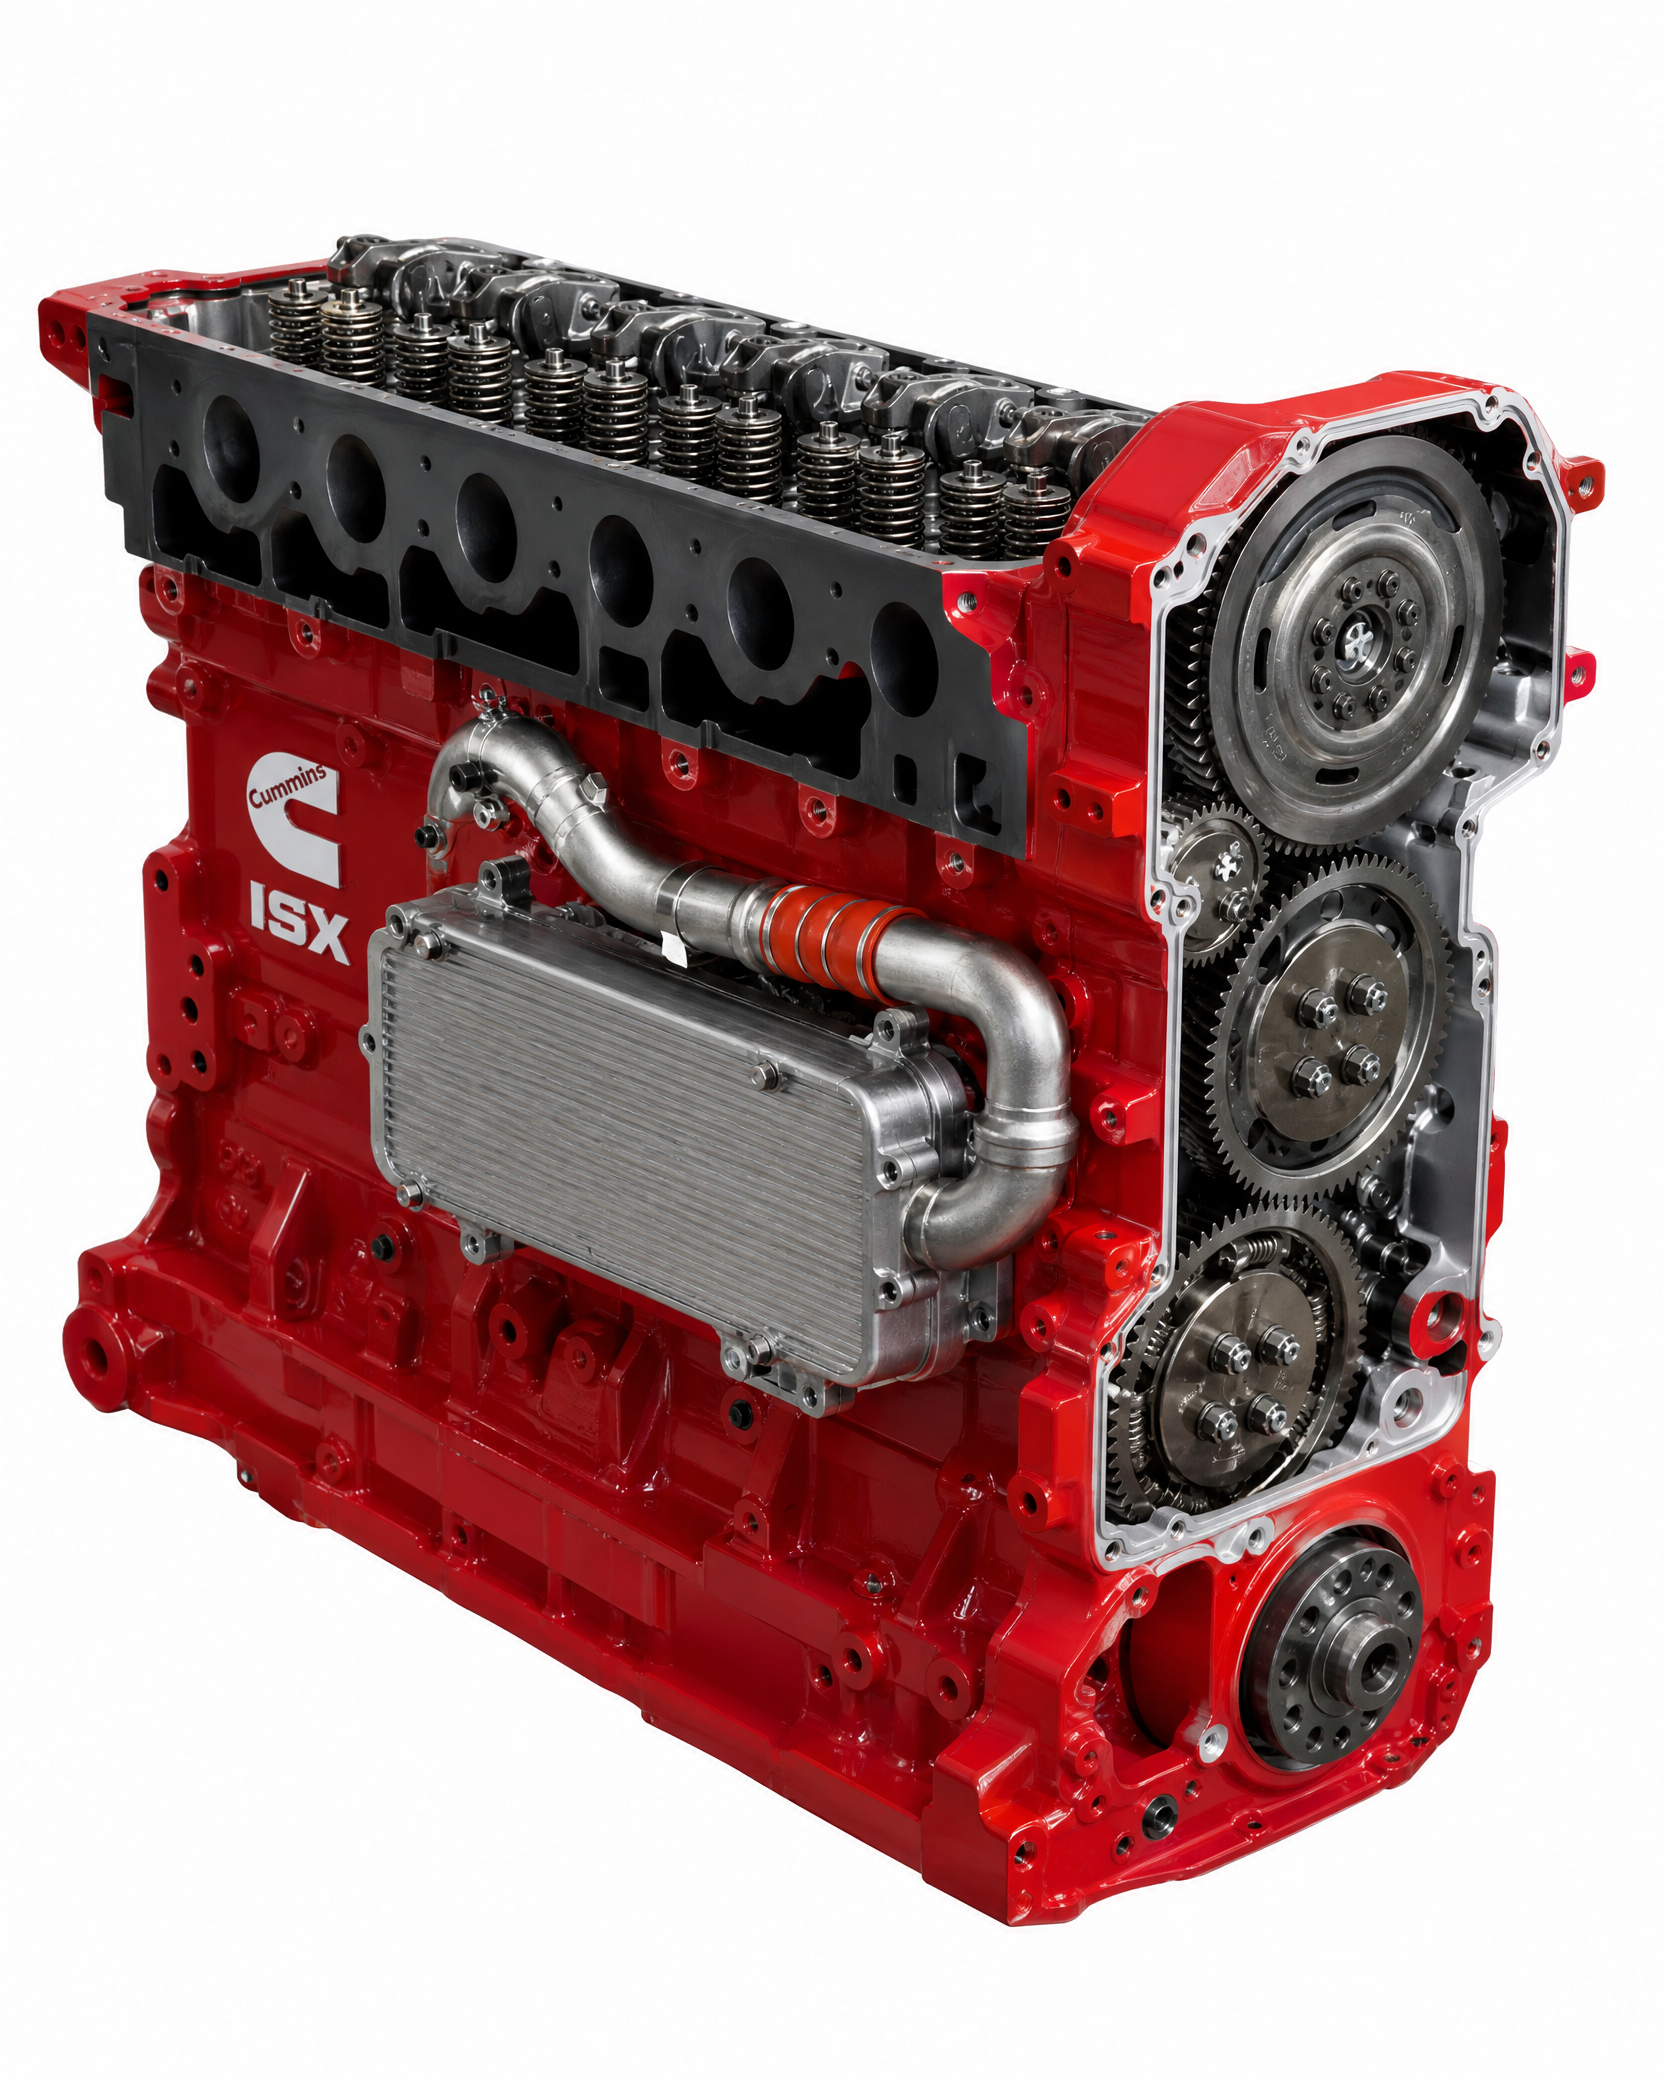
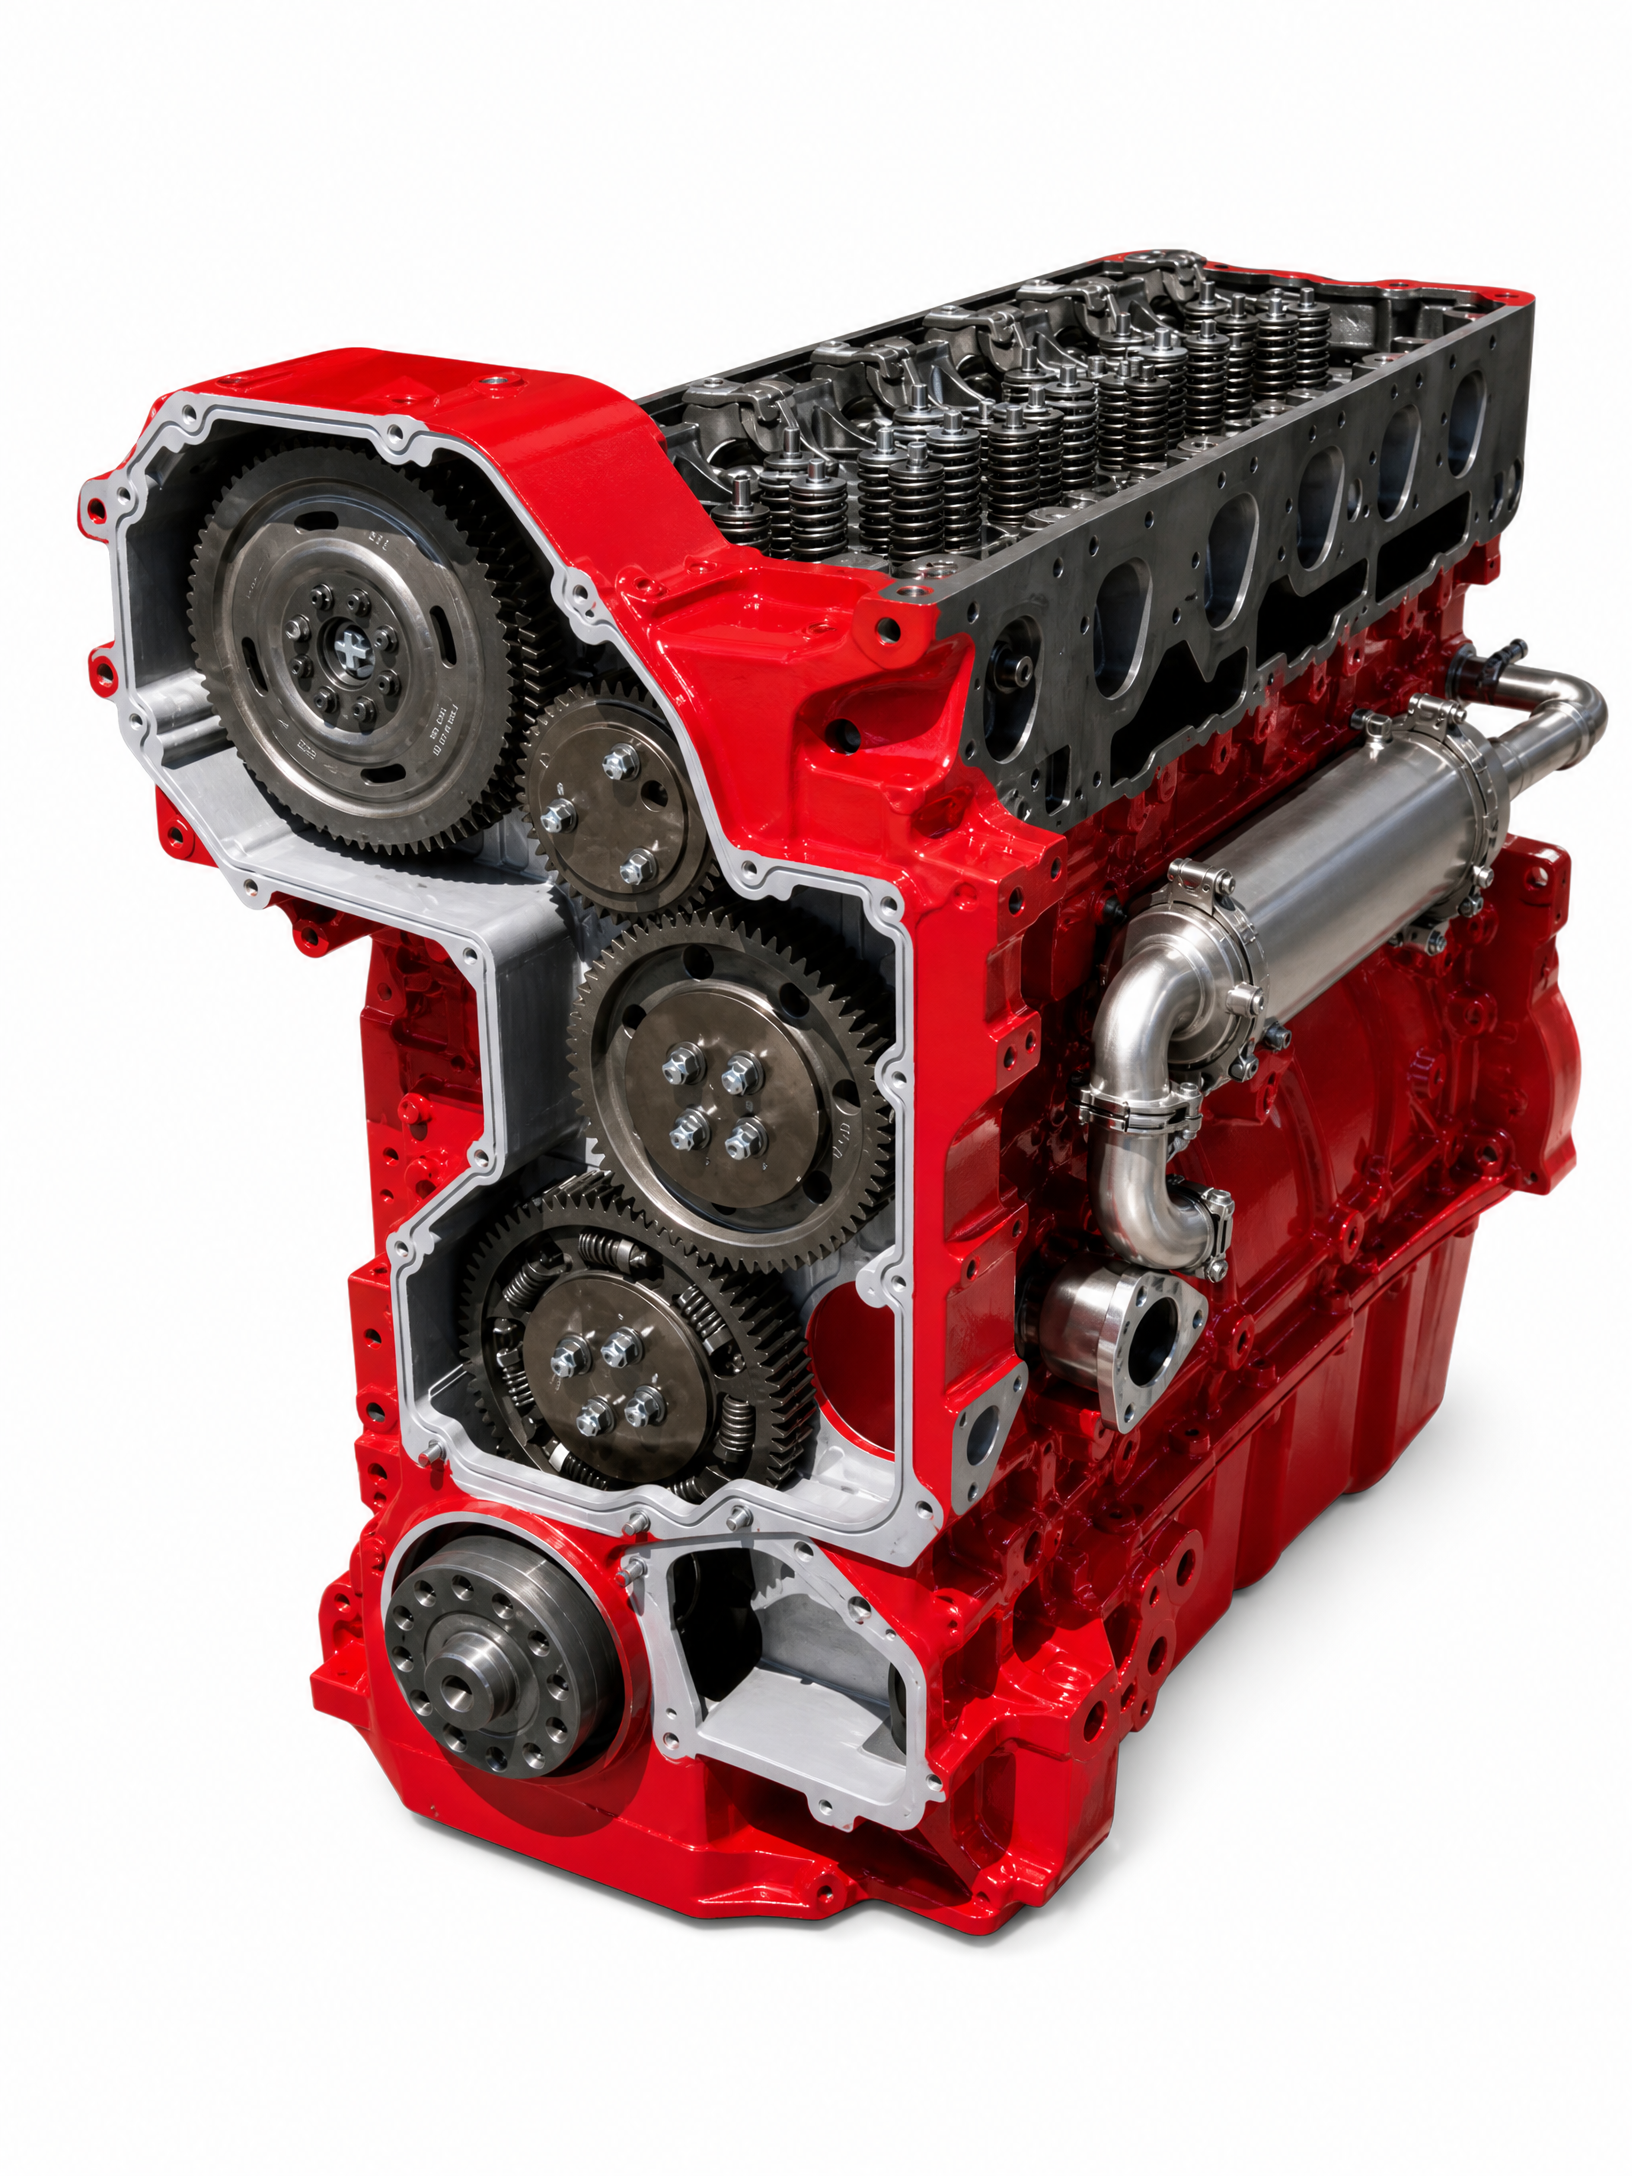
Add 6,500 pricing to all engines, clean images, remanufacturing process section
- Added price column to engines database schema (decimal 10,2)
- Set 6,500 price for all 9 engine models in seed data
- Display price prominently on homepage cards, engines list, and single engine pages
- Added price field to admin panel for future editing
- Updated Schema.org from Article to Product with pricing for Google rich results
- Regenerated x15-performance and isx12n-natural-gas images without logos/text
- Added detailed 6-step remanufacturing process section to each engine page
- Added call-to-action buttons with phone number on engine pages

diff --git a/google49df19dd577457ae.html b/google49df19dd577457ae.html
@@ -1,0 +1,1 @@
+google-site-verification: google49df19dd577457ae.html

diff --git a/templates/engine-single.php b/templates/engine-single.php
@@ -15,18 +15,32 @@ $pageDescription = $engine['meta_description'] ?: $engine['excerpt'] ?: 'Complet
 $pageCanonical = SITE_URL . '/engines/' . $engine['slug'];
 $pageImage = $engine['featured_image'];
 
-// Article Schema
+// Product Schema for rich results with pricing
 $schemaJson = json_encode([
     '@context' => 'https://schema.org',
-    '@type' => 'Article',
-    'headline' => $engine['h1_title'] ?: $engine['title'],
+    '@type' => 'Product',
+    'name' => ($engine['h1_title'] ?: $engine['title']) . ' - Remanufactured',
     'description' => $pageDescription,
     'url' => $pageCanonical,
-    'datePublished' => $engine['created_at'],
-    'dateModified' => $engine['updated_at'],
-    'author' => ['@type' => 'Organization', 'name' => 'ISX Engines'],
-    'publisher' => ['@type' => 'Organization', 'name' => 'ISX Engines'],
-    'mainEntityOfPage' => $pageCanonical
+    'image' => $engine['featured_image'] ? SITE_URL . $engine['featured_image'] : '',
+    'brand' => ['@type' => 'Brand', 'name' => 'US Engine Production'],
+    'manufacturer' => ['@type' => 'Organization', 'name' => 'US Engine Production'],
+    'offers' => [
+        '@type' => 'Offer',
+        'url' => $pageCanonical,
+        'priceCurrency' => 'USD',
+        'price' => $engine['price'] ?? '16500.00',
+        'priceValidUntil' => date('Y-12-31'),
+        'availability' => 'https://schema.org/InStock',
+        'itemCondition' => 'https://schema.org/RefurbishedCondition',
+        'seller' => ['@type' => 'Organization', 'name' => 'US Engine Production']
+    ],
+    'aggregateRating' => [
+        '@type' => 'AggregateRating',
+        'ratingValue' => '4.9',
+        'reviewCount' => '127',
+        'bestRating' => '5'
+    ]
 ]);
 
 include __DIR__ . '/header.php';
@@ -48,6 +62,20 @@ include __DIR__ . '/header.php';
         <div class="row">
             <div class="col-lg-8">
                 <h1 class="mb-3"><?= sanitize($engine['h1_title'] ?: $engine['title']) ?></h1>
+                
+                <!-- Price Banner -->
+                <?php if (!empty($engine['price'])): ?>
+                <div class="alert alert-success d-flex align-items-center justify-content-between mb-4" style="border-left: 5px solid #198754;">
+                    <div>
+                        <span class="fw-bold fs-4 text-success">$<?= number_format($engine['price'], 0) ?></span>
+                        <span class="text-muted ms-2">Remanufactured | Ready to Ship</span>
+                    </div>
+                    <div>
+                        <a href="tel:[phone redacted]" class="btn btn-success btn-sm me-2"><i class="fas fa-phone"></i> Call Now</a>
+                        <a href="<?= SITE_URL ?>/quote" class="btn btn-outline-success btn-sm"><i class="fas fa-envelope"></i> Get Quote</a>
+                    </div>
+                </div>
+                <?php endif; ?>
                 
                 <?php if ($engine['featured_image']): ?>
                     <img src="<?= SITE_URL . $engine['featured_image'] ?>" class="img-fluid rounded mb-4 w-100" style="max-height:400px;object-fit:cover;" alt="<?= sanitize($engine['title']) ?>">
@@ -85,6 +113,74 @@ include __DIR__ . '/header.php';
                     </ul>
                 </div>
                 <?php endif; ?>
+                
+                <!-- US Engine Production Remanufacturing Process -->
+                <div class="mt-5 p-4 bg-light rounded border border-danger border-opacity-25">
+                    <h2 class="text-danger border-bottom border-danger pb-2 mb-4">Why Choose Our Remanufactured <?= sanitize($engine['title']) ?>?</h2>
+                    
+                    <p class="lead">At US Engine Production, we don't just rebuild engines; we completely remanufacture them. Our rigorous 6-step process ensures that every Cummins ISX engine we produce is one of the best remanufactured units available on the market.</p>
+                    
+                    <div class="row g-4 mt-2">
+                        <div class="col-md-6">
+                            <div class="d-flex align-items-start">
+                                <div class="bg-danger text-white rounded-circle d-flex align-items-center justify-content-center me-3 flex-shrink-0" style="width: 40px; height: 40px; font-weight: bold;">1</div>
+                                <div>
+                                    <h4 class="h5">Complete Teardown</h4>
+                                    <p class="small text-muted">Every engine is completely dismantled down to the bare cylinder block. We don't cut corners by leaving sub-assemblies intact.</p>
+                                </div>
+                            </div>
+                        </div>
+                        <div class="col-md-6">
+                            <div class="d-flex align-items-start">
+                                <div class="bg-danger text-white rounded-circle d-flex align-items-center justify-content-center me-3 flex-shrink-0" style="width: 40px; height: 40px; font-weight: bold;">2</div>
+                                <div>
+                                    <h4 class="h5">Meticulous Cleaning</h4>
+                                    <p class="small text-muted">All reusable parts undergo industrial thermal cleaning and magnafluxing to remove all carbon, scale, and contaminants.</p>
+                                </div>
+                            </div>
+                        </div>
+                        <div class="col-md-6">
+                            <div class="d-flex align-items-start">
+                                <div class="bg-danger text-white rounded-circle d-flex align-items-center justify-content-center me-3 flex-shrink-0" style="width: 40px; height: 40px; font-weight: bold;">3</div>
+                                <div>
+                                    <h4 class="h5">Precision Inspection</h4>
+                                    <p class="small text-muted">We use high-quality micrometers and laser measuring tools to inspect all parts, confirming reusability against strict OEM tolerances.</p>
+                                </div>
+                            </div>
+                        </div>
+                        <div class="col-md-6">
+                            <div class="d-flex align-items-start">
+                                <div class="bg-danger text-white rounded-circle d-flex align-items-center justify-content-center me-3 flex-shrink-0" style="width: 40px; height: 40px; font-weight: bold;">4</div>
+                                <div>
+                                    <h4 class="h5">Critical Machining</h4>
+                                    <p class="small text-muted">We verify critical measurements like liner protrusion (0.010"-0.014") and counterbore depth. Any variance over 0.001" is corrected.</p>
+                                </div>
+                            </div>
+                        </div>
+                        <div class="col-md-6">
+                            <div class="d-flex align-items-start">
+                                <div class="bg-danger text-white rounded-circle d-flex align-items-center justify-content-center me-3 flex-shrink-0" style="width: 40px; height: 40px; font-weight: bold;">5</div>
+                                <div>
+                                    <h4 class="h5">Expert Reassembly</h4>
+                                    <p class="small text-muted">Engines are reassembled using premium forged steel pistons, new ring sets, wet liners, main/rod bearings, and complete gasket kits.</p>
+                                </div>
+                            </div>
+                        </div>
+                        <div class="col-md-6">
+                            <div class="d-flex align-items-start">
+                                <div class="bg-danger text-white rounded-circle d-flex align-items-center justify-content-center me-3 flex-shrink-0" style="width: 40px; height: 40px; font-weight: bold;">6</div>
+                                <div>
+                                    <h4 class="h5">Dyno Testing</h4>
+                                    <p class="small text-muted">Before shipping, every engine undergoes compression, leak-down, oil pressure, and full dyno testing under load to guarantee performance.</p>
+                                </div>
+                            </div>
+                        </div>
+                    </div>
+                    
+                    <div class="mt-4 pt-3 border-top text-center">
+                        <p class="mb-0 fw-bold">We address the specific flaws of the <?= sanitize($engine['ecm_code']) ?> during our rebuild process, making our remanufactured engine more reliable than the original factory unit.</p>
+                    </div>
+                </div>
             </div>
             
             <!-- Sidebar -->
@@ -105,8 +201,18 @@ include __DIR__ . '/header.php';
                             <?php if ($engine['emission_standard']): ?><tr><th class="ps-3">Emissions</th><td><?= sanitize($engine['emission_standard']) ?></td></tr><?php endif; ?>
                         </table>
                     </div>
+                    <?php if (!empty($engine['price'])): ?>
+                    <div class="card-body border-top">
+                        <div class="text-center">
+                            <span class="d-block text-muted small">Remanufactured Price</span>
+                            <span class="fw-bold fs-3 text-success">$<?= number_format($engine['price'], 0) ?></span>
+                            <span class="d-block text-muted small">1-Year Unlimited Mileage Warranty</span>
+                        </div>
+                    </div>
+                    <?php endif; ?>
                     <div class="card-footer bg-white">
-                        <a href="<?= SITE_URL ?>/quote" class="btn btn-danger w-100"><i class="fas fa-envelope"></i> Get a Quote</a>
+                        <a href="tel:[phone redacted]" class="btn btn-danger w-100 mb-2"><i class="fas fa-phone"></i> Call 1-[phone redacted]</a>
+                        <a href="<?= SITE_URL ?>/quote" class="btn btn-outline-danger w-100"><i class="fas fa-envelope"></i> Request Quote</a>
                     </div>
                 </div>
                 

diff --git a/admin/engines.php b/admin/engines.php
@@ -29,6 +29,7 @@ if ($_SERVER['REQUEST_METHOD'] === 'POST') {
     $emission_standard = trim($_POST['emission_standard'] ?? '');
     $key_features = trim($_POST['key_features'] ?? '');
     $common_problems = trim($_POST['common_problems'] ?? '');
+    $price = floatval($_POST['price'] ?? 16500);
     $is_published = isset($_POST['is_published']) ? 1 : 0;
     $featured_image = trim($_POST['featured_image'] ?? '');
     
@@ -53,12 +54,12 @@ if ($_SERVER['REQUEST_METHOD'] === 'POST') {
         $message = '<div class="alert alert-danger">Title is required.</div>';
     } else {
         if ($id > 0) {
-            $stmt = $db->prepare("UPDATE engines SET title=?, slug=?, category_id=?, meta_title=?, meta_description=?, h1_title=?, content=?, excerpt=?, featured_image=?, years_produced=?, displacement=?, horsepower=?, torque=?, ecm_code=?, fuel_type=?, bore_stroke=?, configuration=?, emission_standard=?, key_features=?, common_problems=?, is_published=? WHERE id=?");
-            $stmt->execute([$title, $slug, $category_id ?: null, $meta_title, $meta_description, $h1_title, $content, $excerpt, $featured_image, $years_produced, $displacement, $horsepower, $torque, $ecm_code, $fuel_type, $bore_stroke, $configuration, $emission_standard, $key_features, $common_problems, $is_published, $id]);
+            $stmt = $db->prepare("UPDATE engines SET title=?, slug=?, category_id=?, meta_title=?, meta_description=?, h1_title=?, content=?, excerpt=?, featured_image=?, years_produced=?, displacement=?, horsepower=?, torque=?, ecm_code=?, fuel_type=?, bore_stroke=?, configuration=?, emission_standard=?, key_features=?, common_problems=?, price=?, is_published=? WHERE id=?");
+            $stmt->execute([$title, $slug, $category_id ?: null, $meta_title, $meta_description, $h1_title, $content, $excerpt, $featured_image, $years_produced, $displacement, $horsepower, $torque, $ecm_code, $fuel_type, $bore_stroke, $configuration, $emission_standard, $key_features, $common_problems, $price, $is_published, $id]);
             $message = '<div class="alert alert-success">Engine page updated!</div>';
         } else {
-            $stmt = $db->prepare("INSERT INTO engines (title, slug, category_id, meta_title, meta_description, h1_title, content, excerpt, featured_image, years_produced, displacement, horsepower, torque, ecm_code, fuel_type, bore_stroke, configuration, emission_standard, key_features, common_problems, is_published) VALUES (?, ?, ?, ?, ?, ?, ?, ?, ?, ?, ?, ?, ?, ?, ?, ?, ?, ?, ?, ?, ?)");
-            $stmt->execute([$title, $slug, $category_id ?: null, $meta_title, $meta_description, $h1_title, $content, $excerpt, $featured_image, $years_produced, $displacement, $horsepower, $torque, $ecm_code, $fuel_type, $bore_stroke, $configuration, $emission_standard, $key_features, $common_problems, $is_published]);
+            $stmt = $db->prepare("INSERT INTO engines (title, slug, category_id, meta_title, meta_description, h1_title, content, excerpt, featured_image, years_produced, displacement, horsepower, torque, ecm_code, fuel_type, bore_stroke, configuration, emission_standard, key_features, common_problems, price, is_published) VALUES (?, ?, ?, ?, ?, ?, ?, ?, ?, ?, ?, ?, ?, ?, ?, ?, ?, ?, ?, ?, ?, ?)");
+            $stmt->execute([$title, $slug, $category_id ?: null, $meta_title, $meta_description, $h1_title, $content, $excerpt, $featured_image, $years_produced, $displacement, $horsepower, $torque, $ecm_code, $fuel_type, $bore_stroke, $configuration, $emission_standard, $key_features, $common_problems, $price, $is_published]);
             $id = $db->lastInsertId();
             $message = '<div class="alert alert-success">Engine page created!</div>';
         }
@@ -131,7 +132,7 @@ include __DIR__ . '/includes/header.php';
     </div>
 
 <?php else:
-    $engine = ['title'=>'','slug'=>'','category_id'=>0,'meta_title'=>'','meta_description'=>'','h1_title'=>'','content'=>'','excerpt'=>'','featured_image'=>'','years_produced'=>'','displacement'=>'','horsepower'=>'','torque'=>'','ecm_code'=>'','fuel_type'=>'Diesel','bore_stroke'=>'','configuration'=>'Inline 6-Cylinder','emission_standard'=>'','key_features'=>'','common_problems'=>'','is_published'=>1];
+    $engine = ['title'=>'','slug'=>'','category_id'=>0,'meta_title'=>'','meta_description'=>'','h1_title'=>'','content'=>'','excerpt'=>'','featured_image'=>'','years_produced'=>'','displacement'=>'','horsepower'=>'','torque'=>'','ecm_code'=>'','fuel_type'=>'Diesel','bore_stroke'=>'','configuration'=>'Inline 6-Cylinder','emission_standard'=>'','key_features'=>'','common_problems'=>'','price'=>16500,'is_published'=>1];
     if ($id > 0) {
         $stmt = $db->prepare("SELECT * FROM engines WHERE id = ?");
         $stmt->execute([$id]);
@@ -215,6 +216,10 @@ include __DIR__ . '/includes/header.php';
                             <div class="col-6 col-md-4">
                                 <label class="form-label small">Emission Standard</label>
                                 <input type="text" name="emission_standard" class="form-control form-control-sm" value="<?= sanitize($engine['emission_standard']) ?>" placeholder="e.g. EPA 2010">
+                            </div>
+                            <div class="col-6 col-md-4">
+                                <label class="form-label small fw-bold text-success">Price ($)</label>
+                                <input type="number" name="price" class="form-control form-control-sm" value="<?= $engine['price'] ?? 16500 ?>" step="0.01" min="0">
                             </div>
                         </div>
                     </div>

diff --git a/templates/home.php b/templates/home.php
@@ -30,7 +30,7 @@ $schemaJson = json_encode([
         'addressCountry' => 'US'
     ],
     'openingHours' => 'Mo-Fr 08:00-18:00',
-    'priceRange' => '$$'
+    'priceRange' => '$16,500'
 ]);
 
 include __DIR__ . '/header.php';
@@ -137,7 +137,13 @@ foreach ($topPromos as $promo): ?>
                             <div class="d-flex justify-content-between align-items-start mb-2">
                                 <h3 class="h5 card-title text-dark mb-0"><?= sanitize($eng['title']) ?></h3>
                             </div>
-                            <p class="text-muted small mb-2"><?= sanitize($eng['excerpt'] ?: substr(strip_tags($eng['content']), 0, 120)) ?>...</p>
+                            <?php if (!empty($eng['price'])): ?>
+                            <div class="mb-2">
+                                <span class="fw-bold fs-5 text-success">$<?= number_format($eng['price'], 0) ?></span>
+                                <span class="badge bg-success ms-1">In Stock</span>
+                            </div>
+                            <?php endif; ?>
+                            <p class="text-muted small mb-2"><?= sanitize($eng['excerpt'] ?: substr(strip_tags($eng['content']), 0, 100)) ?>...</p>
                             <div class="mt-2 mb-3">
                                 <?php if ($eng['years_produced']): ?><span class="badge bg-secondary me-1"><?= sanitize($eng['years_produced']) ?></span><?php endif; ?>
                                 <?php if ($eng['ecm_code']): ?><span class="badge bg-danger"><?= sanitize($eng['ecm_code']) ?></span><?php endif; ?>
@@ -145,7 +151,7 @@ foreach ($topPromos as $promo): ?>
                             </div>
                         </div>
                         <div class="card-footer bg-white border-0 pt-0">
-                            <span class="btn btn-outline-danger btn-sm w-100">View Specs & Get Quote <i class="fas fa-arrow-right ms-1"></i></span>
+                            <span class="btn btn-outline-danger btn-sm w-100">View Details & Order <i class="fas fa-arrow-right ms-1"></i></span>
                         </div>
                     </div>
                 </a>

diff --git a/templates/engines-list.php b/templates/engines-list.php
@@ -84,6 +84,12 @@ include __DIR__ . '/header.php';
                             <h3 class="h5 card-title">
                                 <a href="<?= SITE_URL ?>/engines/<?= $eng['slug'] ?>" class="text-decoration-none text-dark"><?= sanitize($eng['title']) ?></a>
                             </h3>
+                            <?php if (!empty($eng['price'])): ?>
+                            <div class="mb-2">
+                                <span class="fw-bold fs-5 text-success">$<?= number_format($eng['price'], 0) ?></span>
+                                <span class="badge bg-success ms-1">In Stock</span>
+                            </div>
+                            <?php endif; ?>
                             <p class="card-text text-muted small"><?= sanitize($eng['excerpt'] ?: substr(strip_tags($eng['content']), 0, 100)) ?>...</p>
                             <div class="mt-2">
                                 <?php if ($eng['years_produced']): ?><span class="badge bg-secondary me-1"><?= sanitize($eng['years_produced']) ?></span><?php endif; ?>